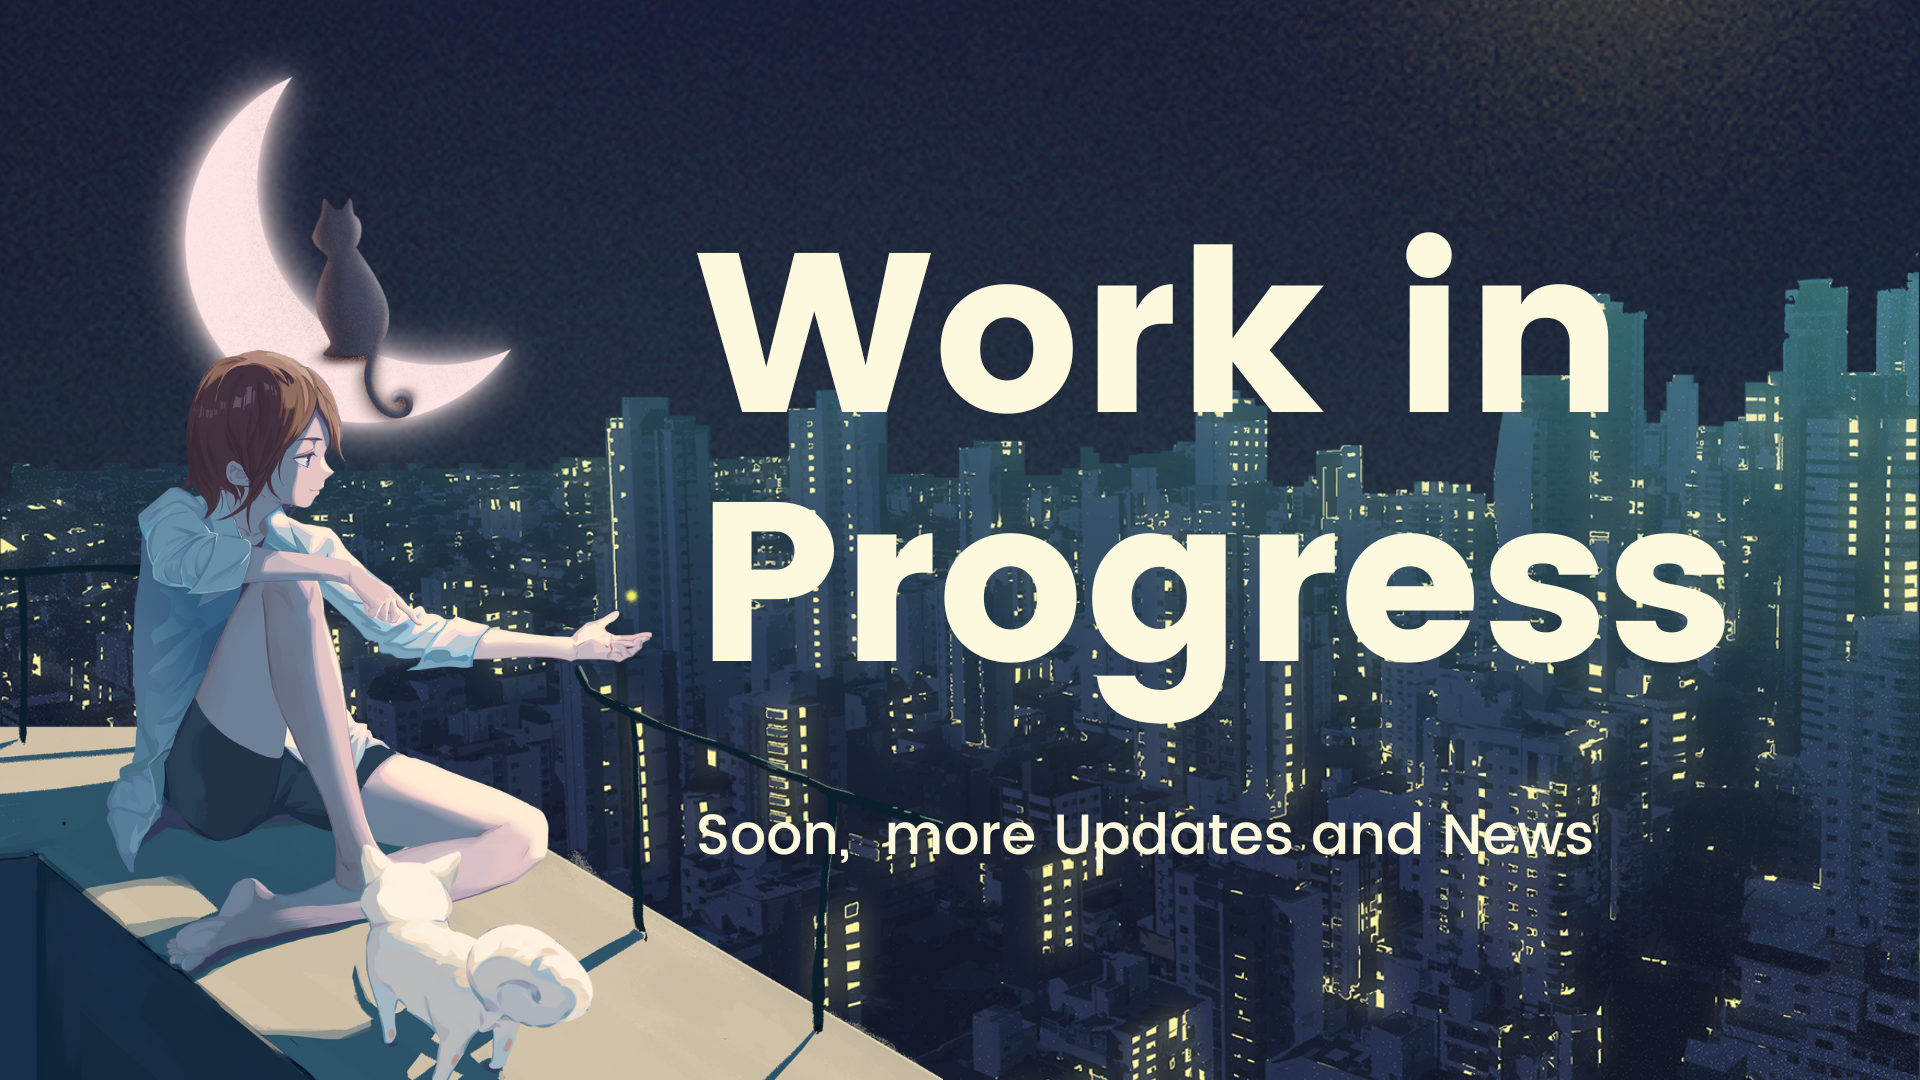
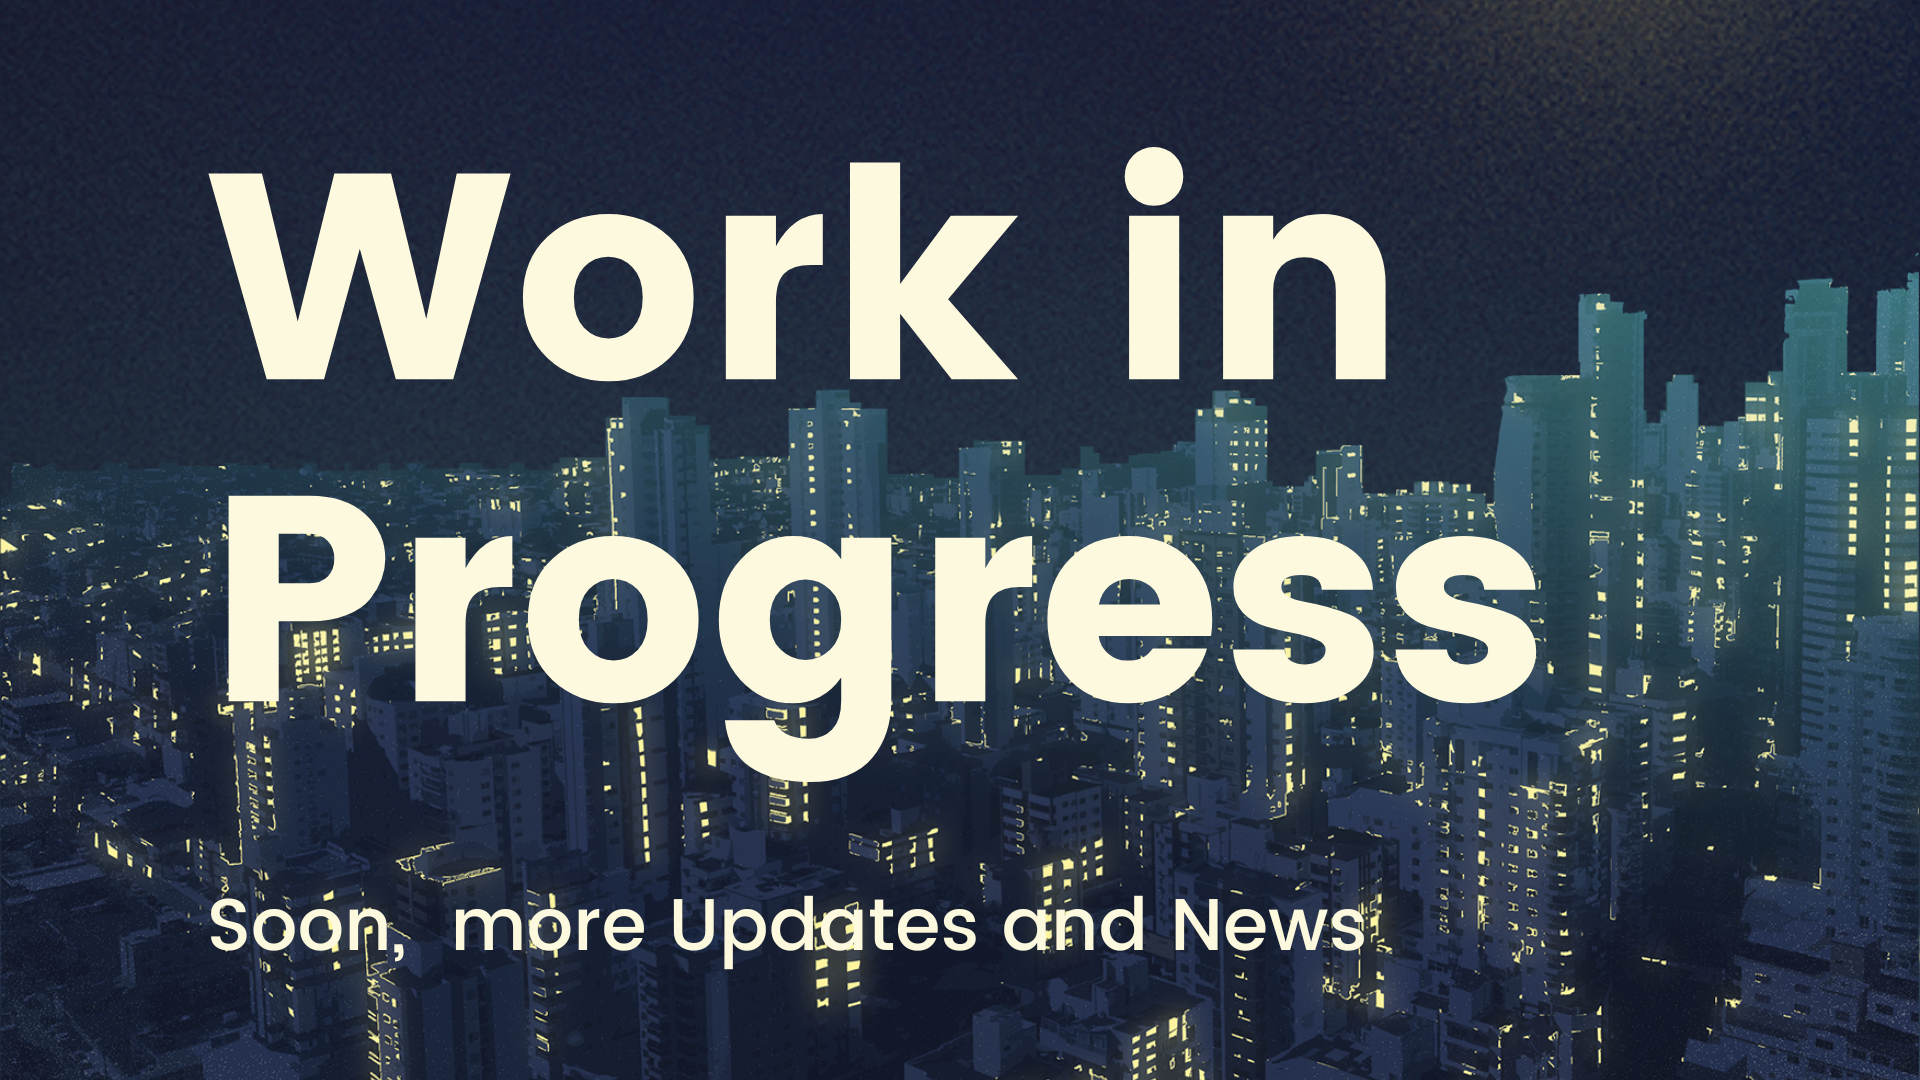
chore(Projects): made some visual changes

diff --git a/src/components/Projects/Projects.styles.tsx b/src/components/Projects/Projects.styles.tsx
@@ -1,8 +1,8 @@
 import { SxProps } from "@mui/material/";
 import { ProjectProps } from "./Projects.types";
-import type { TypographyProps, IconButtonProps } from "@mui/material";
+import type { TypographyProps } from "@mui/material";
 import React from "react";
-import { Typography, IconButton } from "@mui/material";
+import { Typography } from "@mui/material";
 
 export const getContainerStyle = (): SxProps => ({
   marginTop: "10%",
@@ -51,18 +51,18 @@ export const getOverlineStyle = (): SxProps => ({
 });
 
 export const StyledTitle = React.forwardRef<HTMLElement, TypographyProps>(
-  (props) => (
-    <Typography
-      fontFamily={"roboto"}
-      variant="h6"
-      color={"#696969"}
-      {...props}
-    />
-  )
+  (props) => <Typography fontFamily={"roboto"} variant="h6" {...props} />
 );
 
 export const StyledBody = React.forwardRef<HTMLElement, TypographyProps>(
-  (props) => <Typography fontFamily={"sans-serif"} variant="body2" {...props} />
+  (props) => (
+    <Typography
+      fontFamily={"Open Sans"}
+      variant="body2"
+      color={"#4F4F4F"}
+      {...props}
+    />
+  )
 );
 
 export const StyledOverline = React.forwardRef<HTMLElement, TypographyProps>(
@@ -71,6 +71,7 @@ export const StyledOverline = React.forwardRef<HTMLElement, TypographyProps>(
       fontFamily={"sans-serif"}
       variant="overline"
       fontWeight={"bold"}
+      color={"#4F4F4F"}
       {...props}
     />
   )

diff --git a/src/components/Projects/Projects.js b/src/components/Projects/Projects.js
@@ -1,5 +1,5 @@
 import React from "react";
-import { Box, Typography, IconButton } from "@mui/material";
+import { Box, Typography, IconButton, Divider } from "@mui/material";
 import {
   getContainerStyle,
   getImageStyle,
@@ -13,7 +13,7 @@ import {
 } from "./Projects.styles.tsx";
 import { FaGithub } from "react-icons/fa";
 import { BsBoxArrowInUpRight } from "react-icons/bs";
-import WorkInProgress from "../../assets/images/WorkInProgress.png";
+import WorkInProgress from "../../assets/images/WorkinProgress.png";
 
 const Projects = () => {
   const bankSite = {
@@ -35,10 +35,18 @@ const Projects = () => {
 
   return (
     <Box sx={getContainerStyle} id="Projetos">
-      <Typography fontFamily={"roboto"} variant="h4">
+      <Typography
+        fontFamily={"roboto"}
+        variant="h5"
+        color={"#e8847c"}
+        sx={{ textAlign: "center" }}
+      >
         Portfólio
       </Typography>
-      <Box sx={{ m: 2 }} />
+      <Typography fontFamily={"roboto"} variant="h6" color={"#4F4F4F"}>
+        Cada projeto, uma jornada singular de aprendizado e evolução
+      </Typography>
+      <Box sx={{ m: 4 }} />
       <Box sx={getContentStyle()}>
         <Box sx={getImageStyle}>
           <img alt="" src={WorkInProgress} style={{ width: "100%" }} />

diff --git a/src/components/About/About.js b/src/components/About/About.js
@@ -14,12 +14,19 @@ const About = () => {
     <Box sx={getContainerStyle} id="Sobre">
       <Box sx={getContentStyle}>
         <Box sx={getTitleStyle}>
-          <Typography fontFamily={"roboto"} variant="h4">
+          <Typography fontFamily={"roboto"} variant="h5" color={"#e8847c"}>
             Sobre mim
+          </Typography>
+          <Typography fontFamily={"roboto"} variant="h6" color={"#4F4F4F"}>
+            Um entusiasta da programação em busca de um aprendizado contínuo
           </Typography>
         </Box>
         <Box sx={getSubtitleStyle}>
-          <Typography fontFamily={"sans-serif"} variant="subtitle2">
+          <Typography
+            fontFamily={"Open Sans"}
+            variant="body2"
+            color={"#4F4F4F"}
+          >
             Como um entusiasta em Tech, trabalho há mais de quatro anos na área
             de tecnologia, sempre em constante aprendizado e focado
             principalmente no desenvolvimento de software. <br />

diff --git a/public/index.html b/public/index.html
@@ -25,7 +25,8 @@
       Learn how to configure a non-root public URL by running `npm run build`.
     -->
     <title>React App</title>
-    <link href="https://fonts.googleapis.com/css2?family=Roboto:wght@900&display=swap" rel="stylesheet">
+    <!-- <link href="https://fonts.googleapis.com/css2?family=Roboto:wght@900&display=swap" rel="stylesheet"> -->
+    <link href="https://fonts.googleapis.com/css2?family=Open+Sans:wght@500&family=Roboto:wght@900&display=swap" rel="stylesheet">
   </head>
   <body>
     <noscript>You need to enable JavaScript to run this app.</noscript>

diff --git a/src/components/Home/Home.js b/src/components/Home/Home.js
@@ -47,7 +47,11 @@ const Home = () => {
           </Typography>
         </Box>
         <Box sx={getSubtitleStyle}>
-          <Typography fontFamily={"sans-serif"} variant="subtitle2">
+          <Typography
+            fontFamily={"Open Sans"}
+            variant="subtitle2"
+            color={"#4F4F4F"}
+          >
             Sou apaixonado pelo mundo do desenvolvimento e atuo há mais de
             quatro anos no setor de tecnologia. Minha trajetória tem sido uma
             constante busca por aprendizado e aprimoramento, com foco especial

diff --git a/src/components/About/About.styles.ts b/src/components/About/About.styles.ts
@@ -7,7 +7,7 @@ export const getContainerStyle = (): SxProps => ({
 
 export const getContentStyle = (): SxProps => ({
   display: "grid",
-  gridTemplateAreas: `'title image''content image''icons image'`,
+  gridTemplateAreas: `'image title'' image content'`,
   gridGap: "20px",
   marginTop: "10%",
   maxWidth: "900px",

diff --git a/src/assets/styles/global.js b/src/assets/styles/global.js
@@ -5,6 +5,7 @@ export default createGlobalStyle`
         margin: 0;
         padding: 0;
         box-sizing: border-box;
+        font-family: 'Open Sans', sans-serif;
         font-family: 'Roboto', sans-serif;
     }
 
